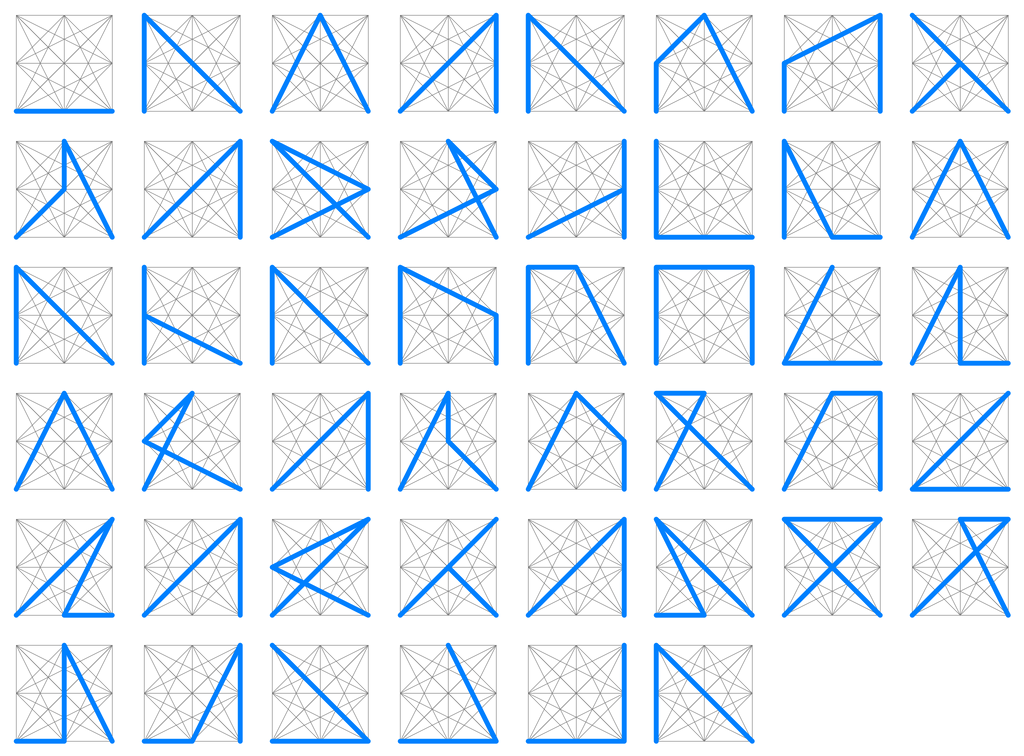
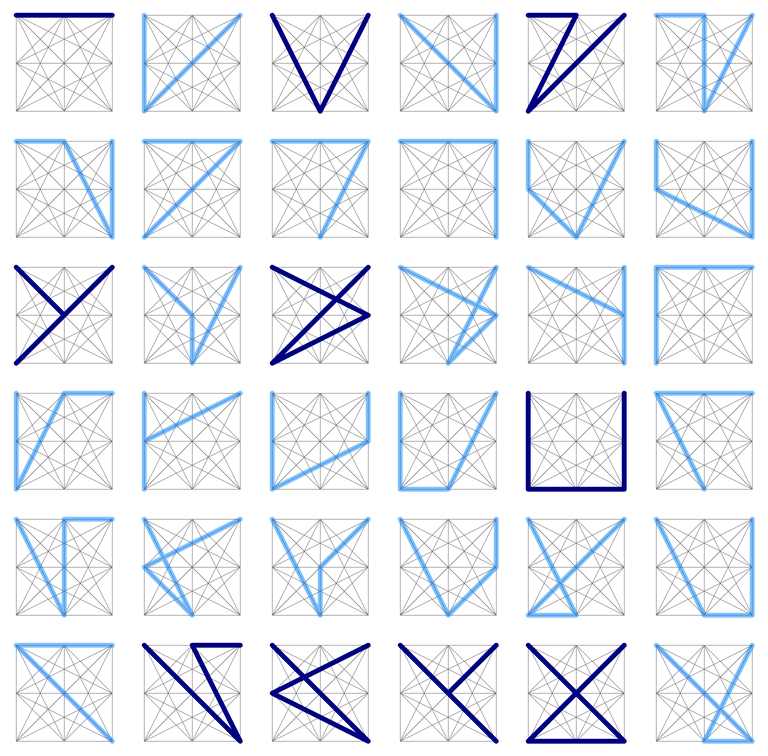
ok

diff --git a/enumeration/enumerate.rb b/enumeration/enumerate.rb
@@ -4,9 +4,35 @@ $pen = 10
 $width = 200 + gap*2
 $height = 200 + gap*2
 
+used = %w[
+0-0
+1-1
+2-12
+2-15
+2-25
+2-37
+2-38
+2-40
+2-3
+2-35
+].map { |x| "#{x}.png" }
+
+duplicates = %w[
+2-1
+2-28
+2-0
+2-2
+2-9
+2-14
+2-20
+2-22
+2-36
+2-39
+].map { |x| "#{x}.png" }
+
 points = 3.times.map { |y|
   3.times.map { |x|
-    Point[x * step + gap, $height - (y * step + gap)]
+    Point[x * step + gap, (y * step + gap)]
   }
 }.flatten
 
@@ -27,18 +53,23 @@ system 'rm *.png'
     .select { |xs| xs.length == 0 || xs.find { |x| $ceiling.include?(x) }}
     .each_with_index { |xs, i|
     path = make_path xs
-    draw path, "#{len}-#{i}.png"
+    file = "#{len}-#{i}.png"
+    next if duplicates.include? file
+    draw path, file, used.include?(file)
   }
 }
-system 'montage *.png ../enumeration.png'
+files = Dir['*.png'].sort_by { |x| x.scan(/\d+/).map &:to_i } * ' '
+system %'montage #{files} ../enumeration.png'
 
 BEGIN {
   def make_path points
     [$start, *points, $finish]
   end
 
-  def draw path, file
+  def draw path, file, highlight = false
     draw_path = to_draw path
+
+    color = highlight ? '"navy"' : '"rgba(0,128,255, 0.5)"'
 
     command = <<-END.strip.lines.map(&:strip).join(' ')
       convert
@@ -50,7 +81,7 @@ BEGIN {
       -strokewidth 1
       #{$draw_grids * ' '}
 
-      -stroke "rgba(0,128,255, 1)"
+      -stroke #{color}
       -strokewidth #{$pen}
       #{draw_path}
 

diff --git a/draw.rb b/draw.rb
@@ -123,12 +123,14 @@ if __FILE__ == $0
   c.use '-strokewidth 5 -stroke navy'
   c.next_line 0
   c.draw "xryvtcq", latin: false
+  c.next_line 0.6
+  c.draw "   w   ", latin: false
 
   c.use 'trim'
   c.use '+repage'
   c.use 'bordercolor white -border 20'
 
-  c.render 'sequence.png'
+  c.render? 'sequence.png'
 
 
   # naming is hard
